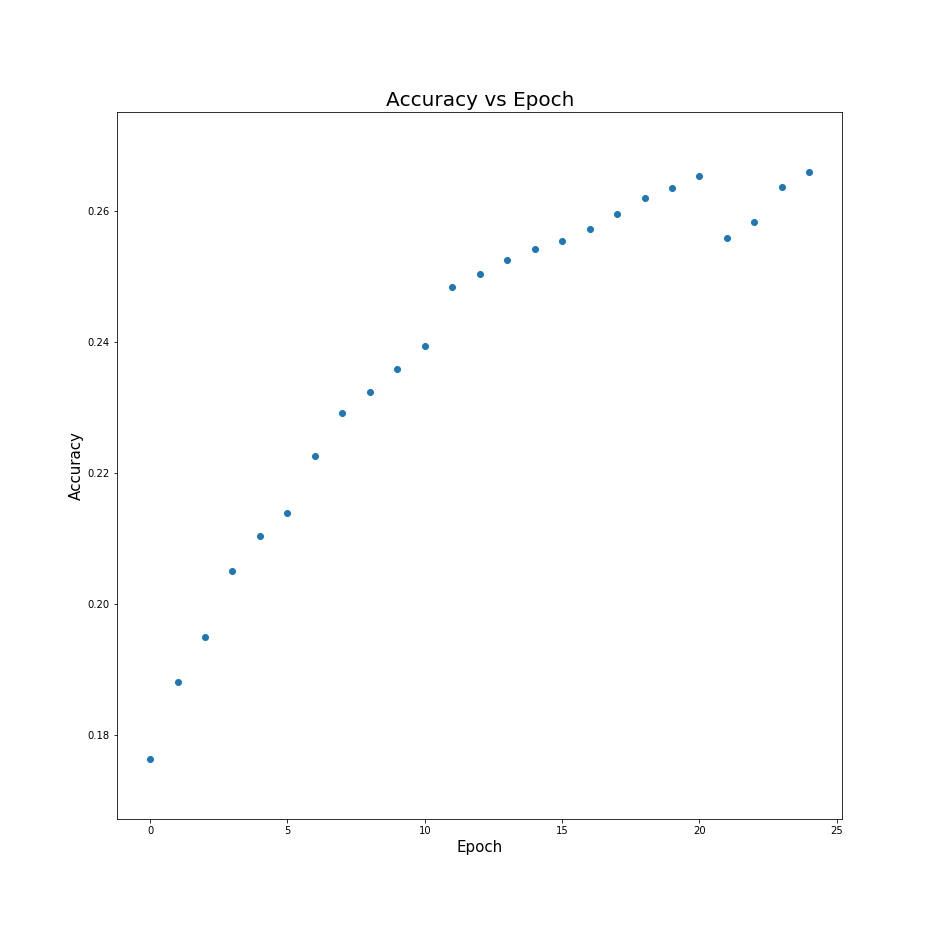
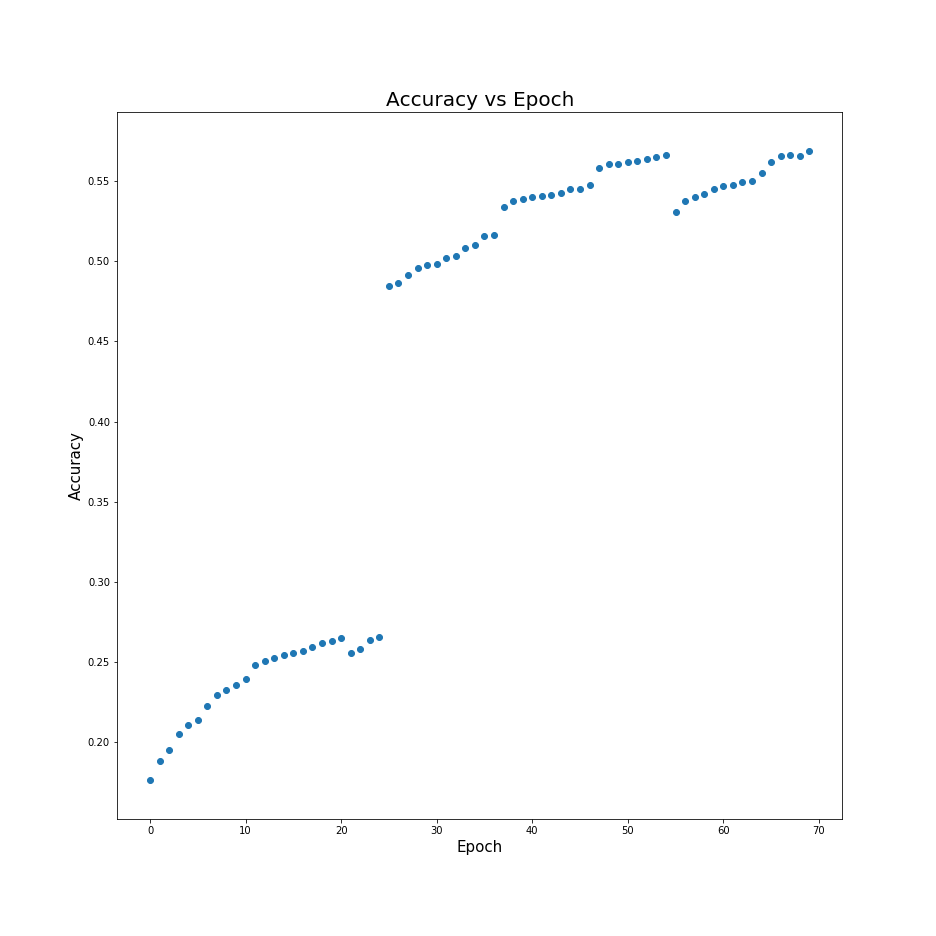
added sentence translation from trained model

diff --git a/src/infer.py b/src/infer.py
@@ -1,0 +1,100 @@
+# -*- coding: utf-8 -*-
+"""
+Created on Wed Jun 19 12:01:47 2019
+
+@author: WT
+"""
+import os
+import pickle
+import torch
+import torch.optim as optim
+from torch.autograd import Variable
+import torchtext
+from models import Transformer, create_masks, create_trg_mask
+from process_data import tokener
+
+def load_pickle(filename):
+    completeName = os.path.join("./data/",\
+                                filename)
+    with open(completeName, 'rb') as pkl_file:
+        data = pickle.load(pkl_file)
+    return data
+
+def save_as_pickle(filename, data):
+    completeName = os.path.join("./data/",\
+                                filename)
+    with open(completeName, 'wb') as output:
+        pickle.dump(data, output)
+    
+def dum_tokenizer(sent):
+    return sent.split()
+
+### Loads model and optimizer states
+def load(net, optimizer, model_no=0, load_best=True):
+    base_path = "./data/"
+    if load_best == False:
+        checkpoint = torch.load(os.path.join(base_path,"test_checkpoint_%d.pth.tar" % model_no))
+    else:
+        checkpoint = torch.load(os.path.join(base_path,"test_model_best_%d.pth.tar" % model_no))
+    start_epoch = checkpoint['epoch']
+    best_pred = checkpoint['best_acc']
+    net.load_state_dict(checkpoint['state_dict'])
+    optimizer.load_state_dict(checkpoint['optimizer'])
+    return start_epoch, best_pred
+
+if __name__ == "__main__":
+    ### Load model and vocab
+    FR = torchtext.data.Field(tokenize=dum_tokenizer, lower=True, init_token="<sos>", eos_token="<eos>",\
+                              batch_first=True)
+    EN = torchtext.data.Field(tokenize=dum_tokenizer, lower=True, batch_first=True)
+    train = torchtext.data.TabularDataset(os.path.join("./data/", "df.csv"), format="csv", \
+                                             fields=[("EN", EN), ("FR", FR)])
+    FR.build_vocab(train)
+    EN.build_vocab(train)
+    src_vocab = len(EN.vocab)
+    trg_vocab = len(FR.vocab)
+    tokenizer_en = tokener("en")
+    
+    batch_size = 32
+    model_no = 0
+    cuda = torch.cuda.is_available()
+    net = Transformer(src_vocab=src_vocab, trg_vocab=trg_vocab, d_model=512, num=6, n_heads=8)
+    optimizer = optim.Adam(net.parameters(), lr=0.001, betas=(0.9, 0.98), eps=1e-9)
+    if cuda:
+        net.cuda()
+    start_epoch, acc = load(net, optimizer, model_no, load_best=False)
+    net.eval()
+    
+    ### process user input sentence
+    sent = "I am a music student."
+    sent = tokenizer_en.tokenize(sent).split()
+    sent = [EN.vocab.stoi[tok] for tok in sent]
+    sent = Variable(torch.LongTensor(sent)).unsqueeze(0)
+    trg_init = FR.vocab.stoi["<sos>"]
+    trg_init = Variable(torch.LongTensor([trg_init])).unsqueeze(0)
+    trg = trg_init
+    trg_end = FR.vocab.stoi["<eos>"]
+    src_mask, _ = create_masks(sent, trg_init)
+    if cuda:
+        sent = sent.cuda(); src_mask = src_mask.cuda()
+        trg = trg.cuda()
+    e_out = net.encoder(sent, src_mask) # encoder output for english sentence
+    translated_word = []; translated_word_idxs = []
+    for i in range(2, 128):
+        trg_mask = create_trg_mask(trg, cuda=cuda)
+        if cuda:
+            trg = trg.cuda(); trg_mask = trg_mask.cuda()
+        outputs = net.fc1(net.decoder(trg, e_out, src_mask, trg_mask))
+        out_idxs = torch.softmax(outputs, dim=2).max(2)[1]
+        trg = torch.cat((trg, out_idxs), dim=1)
+        if cuda:
+            out_idxs = out_idxs.cpu().numpy()
+        else:
+            out_idxs = out_idxs.numpy()
+        translated_word_idxs.append(out_idxs.tolist()[0][-1])
+        if translated_word_idxs[-1] == FR.vocab.stoi["<eos>"]:
+            break
+        translated_word.append(FR.vocab.itos[translated_word_idxs[-1]])
+        print(translated_word[-1])
+        
+    print(" ".join(translated_word))

diff --git a/src/train.py b/src/train.py
@@ -84,8 +84,8 @@ if __name__=="__main__":
         if p.dim() > 1:
             nn.init.xavier_uniform_(p)
     criterion = nn.CrossEntropyLoss(ignore_index=1)
-    optimizer = optim.Adam(net.parameters(), lr=0.001, betas=(0.9, 0.98), eps=1e-9)
-    scheduler = optim.lr_scheduler.MultiStepLR(optimizer, milestones=[10,20,30,40,50,70,80], gamma=0.5)
+    optimizer = optim.Adam(net.parameters(), lr=0.0005, betas=(0.9, 0.98), eps=1e-9)
+    scheduler = optim.lr_scheduler.MultiStepLR(optimizer, milestones=[10,20,30,40,50,100,200], gamma=0.9)
     if cuda:
         net.cuda()
         
@@ -93,7 +93,7 @@ if __name__=="__main__":
         start_epoch, acc = load(net, optimizer, model_no, load_best=False)
     except:
         start_epoch = 0; acc = 0
-    stop_epoch = 70; end_epoch = 70
+    stop_epoch = 200; end_epoch = 200
     
     try:
         losses_per_epoch = load_pickle("test_losses_per_epoch_%d.pkl" % model_no)

diff --git a/src/models.py b/src/models.py
@@ -24,6 +24,15 @@ def create_masks(src, trg):
         trg_mask = None
     return src_mask, trg_mask
 
+def create_trg_mask(trg, cuda):
+    trg_mask = (trg != 1).unsqueeze(-2)
+    np_mask = np.triu(np.ones((1, trg.size(1),trg.size(1))),k=1).astype('uint8')
+    np_mask = Variable(torch.from_numpy(np_mask) == 0)
+    if cuda:
+        np_mask = np_mask.cuda()
+    trg_mask = trg_mask & np_mask
+    return trg_mask
+
 class Pos_Encoder(nn.Module):
     def __init__(self, d_model, max_len):
         super(Pos_Encoder, self).__init__()
